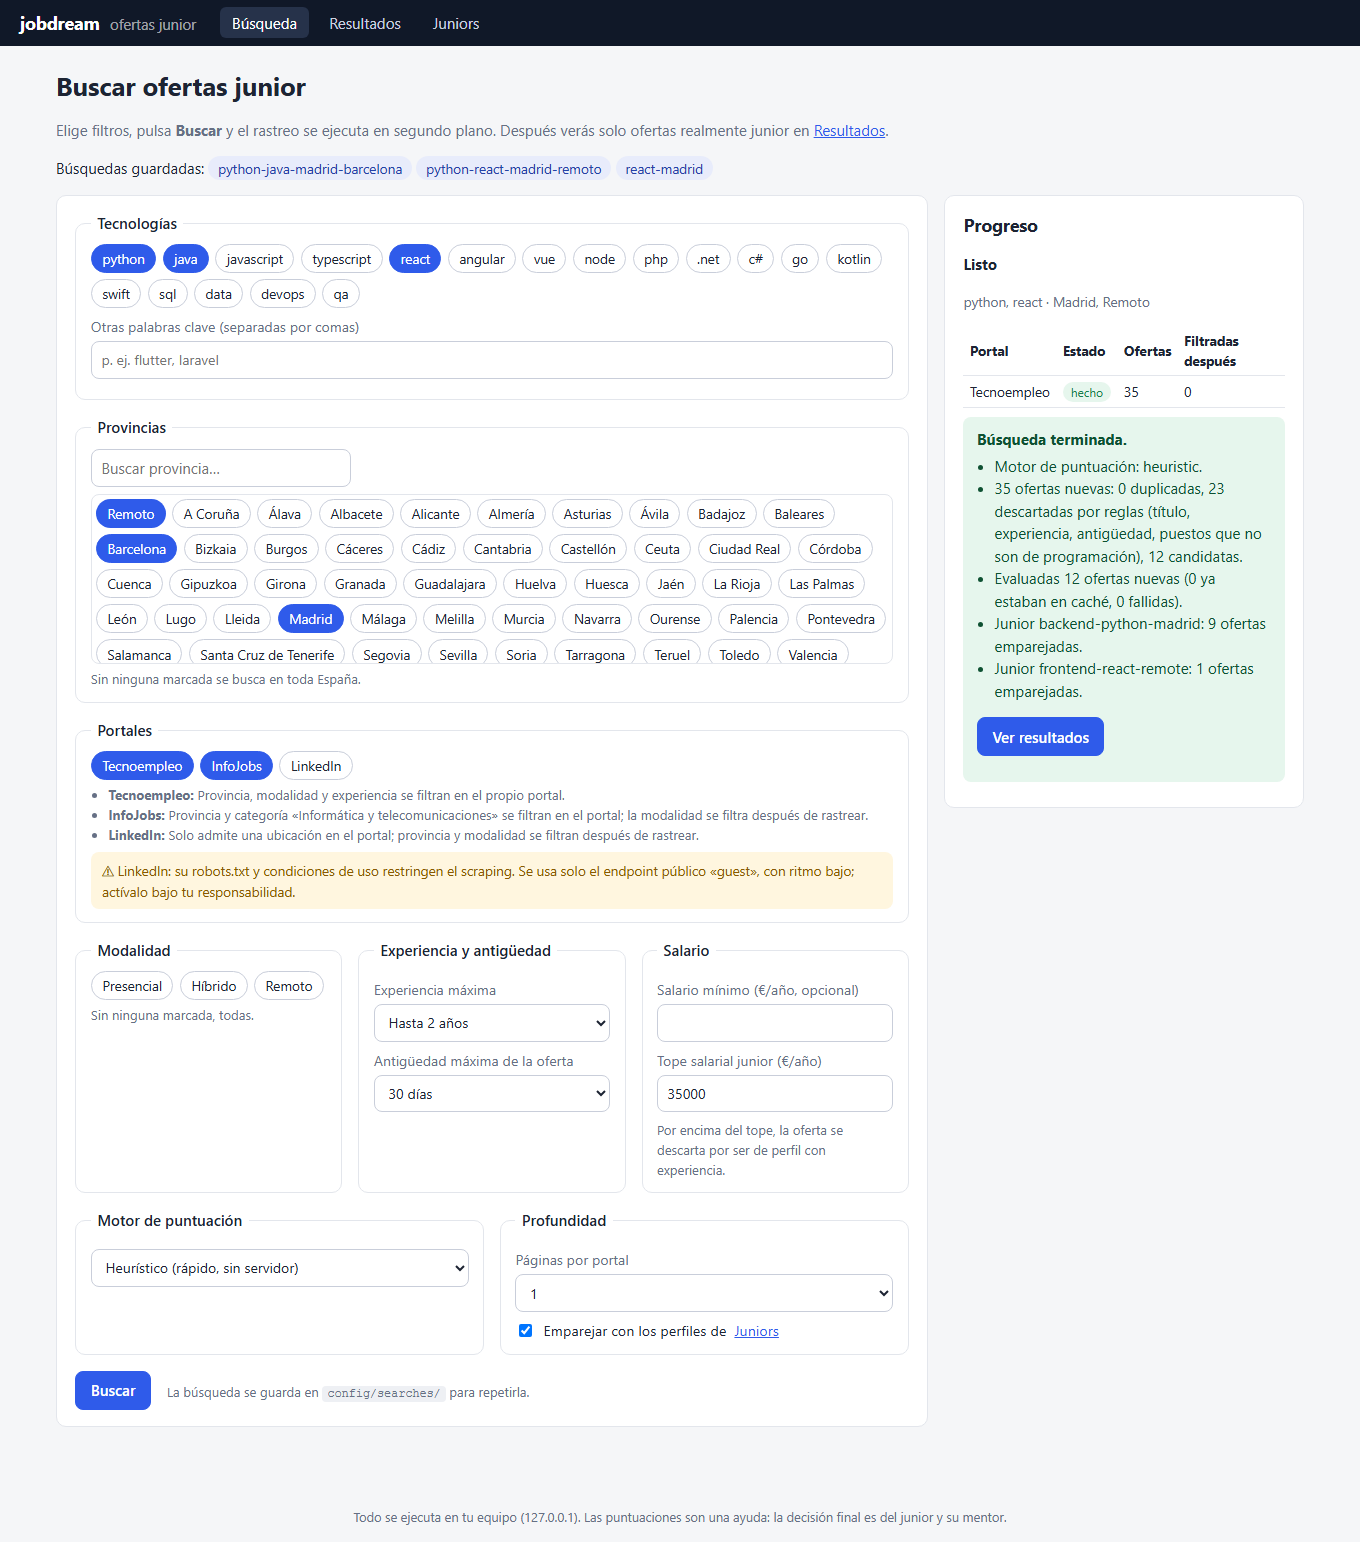
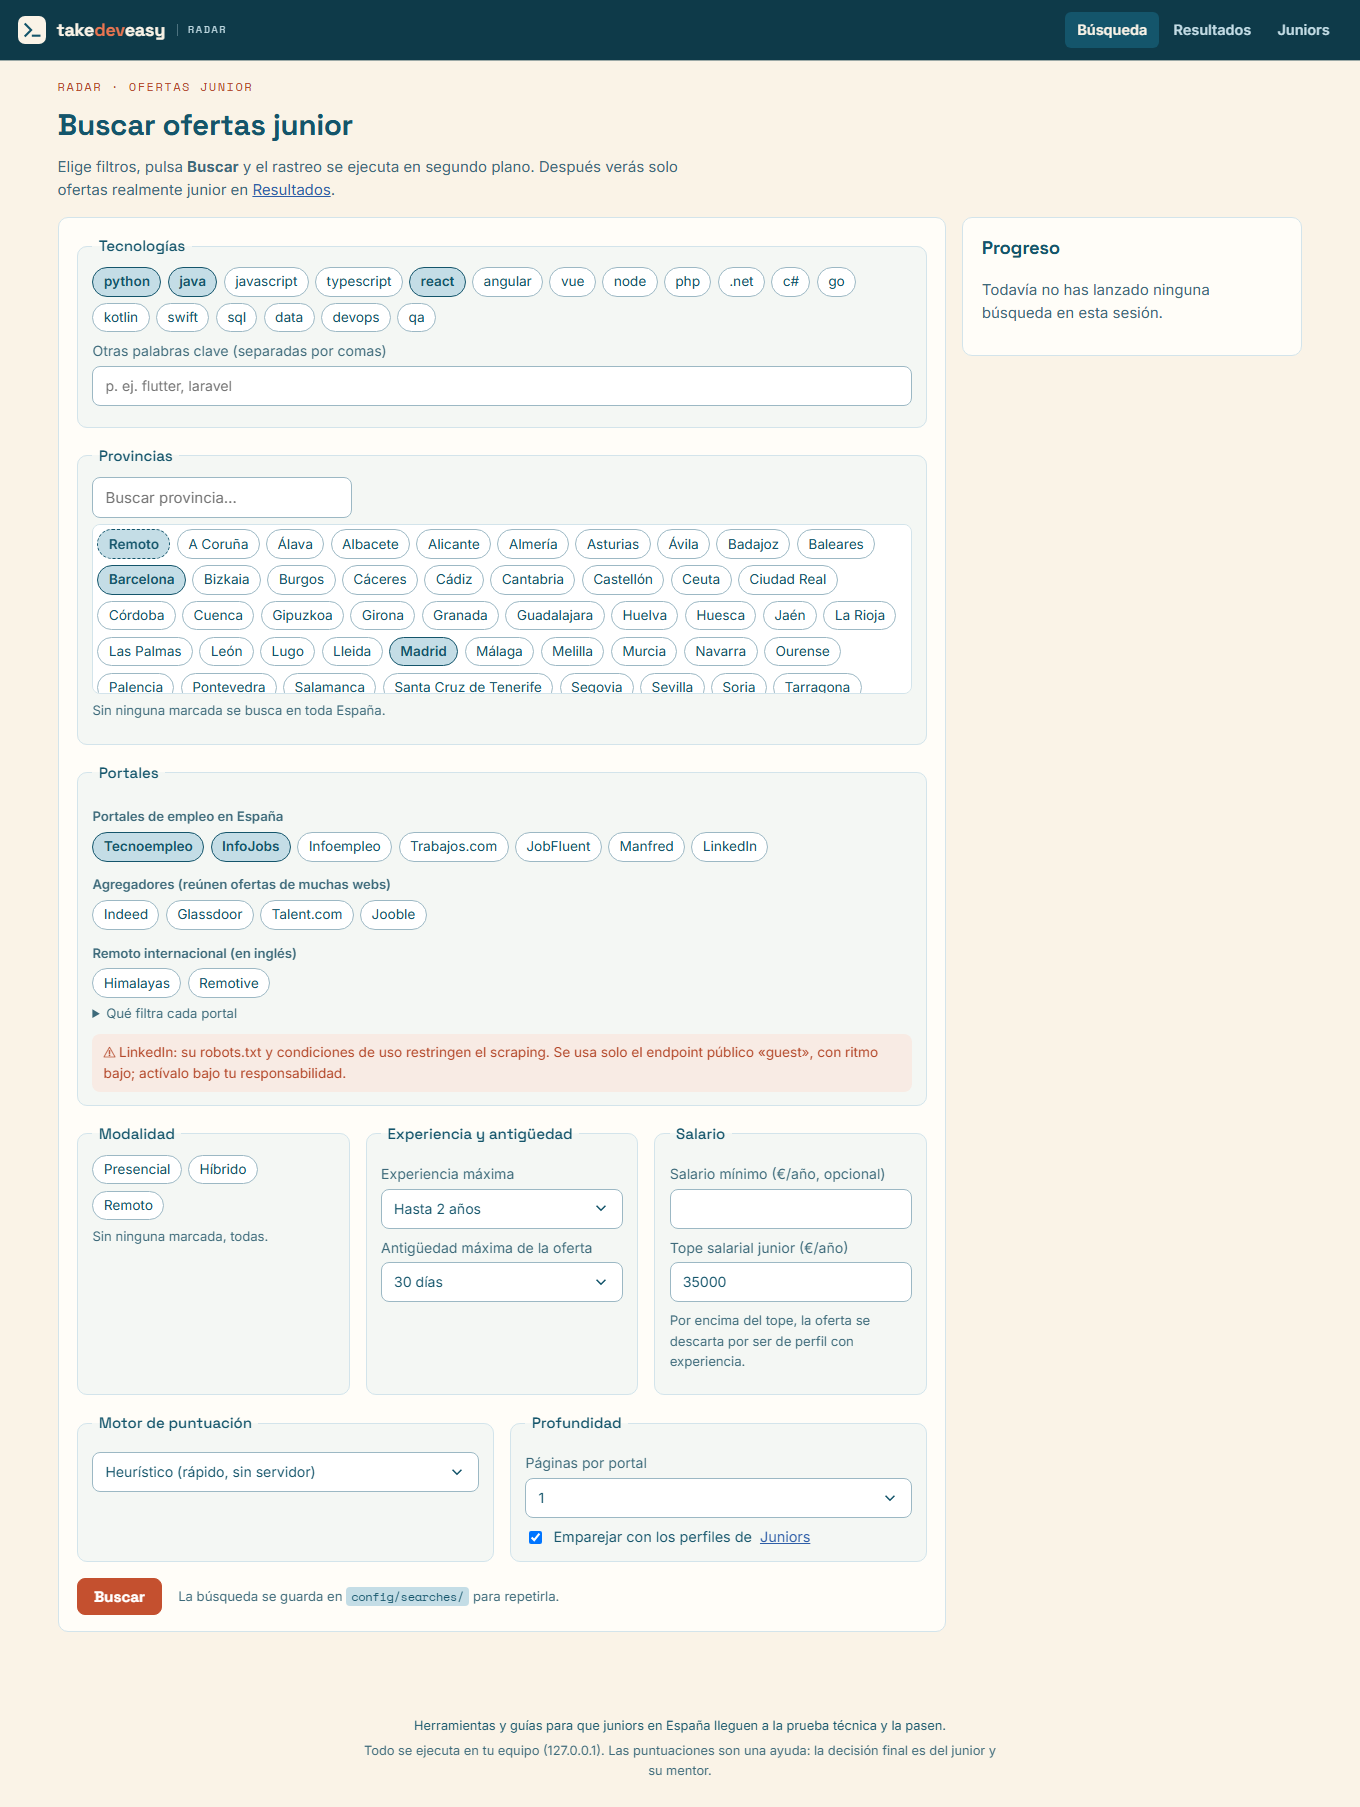
docs: capturas actualizadas con la interfaz actual
Búsqueda, resultados y perfiles junior con el estilo de takedeveasy, generadas con los datos de demo (offerscan run --from-fixtures).

diff --git a/README.md b/README.md
@@ -4,7 +4,7 @@ Herramienta local para juniors en España: rastrea ofertas en hasta 13 portales 
 
 Todo corre en **tu ordenador**. No hay cuenta, no hay nube y no hace falta pagar ninguna API.
 
-![Resultados de una búsqueda en offerscan](docs/img/resultados.png)
+![Resultados: ofertas puntuadas para revisar y marcar como junior o no](docs/img/resultados.png)
 
 ## 1. Qué necesitas
 
@@ -120,6 +120,8 @@ offerscan doctor                   # la fila «Navegador stealth» debe decir OK
 
 En **Búsqueda**:
 
+![Pantalla de búsqueda: tecnologías, provincias, portales y motor](docs/img/busqueda.png)
+
 1. Deja **Python** (o tu stack) y **Madrid** / **Remoto**.
 2. Marca solo **Tecnoempleo** la primera vez. InfoJobs a veces pide captcha; LinkedIn está restringido por sus condiciones de uso.
 3. Motor: **Heurístico** (no hace falta ningún servidor extra).
@@ -142,6 +144,8 @@ En «Qué filtra cada portal», debajo de las casillas, tienes el detalle de cad
 En **Juniors** crea un perfil con tu stack, provincias y salario mínimo. **Sin nombre, email ni teléfono.**
 
 Hay dos ejemplos (`backend-python-madrid` y `frontend-react-remote`) que puedes duplicar.
+
+![Perfiles junior con su stack y las ofertas emparejadas](docs/img/juniors.png)
 
 ## 6. Si algo falla
 
